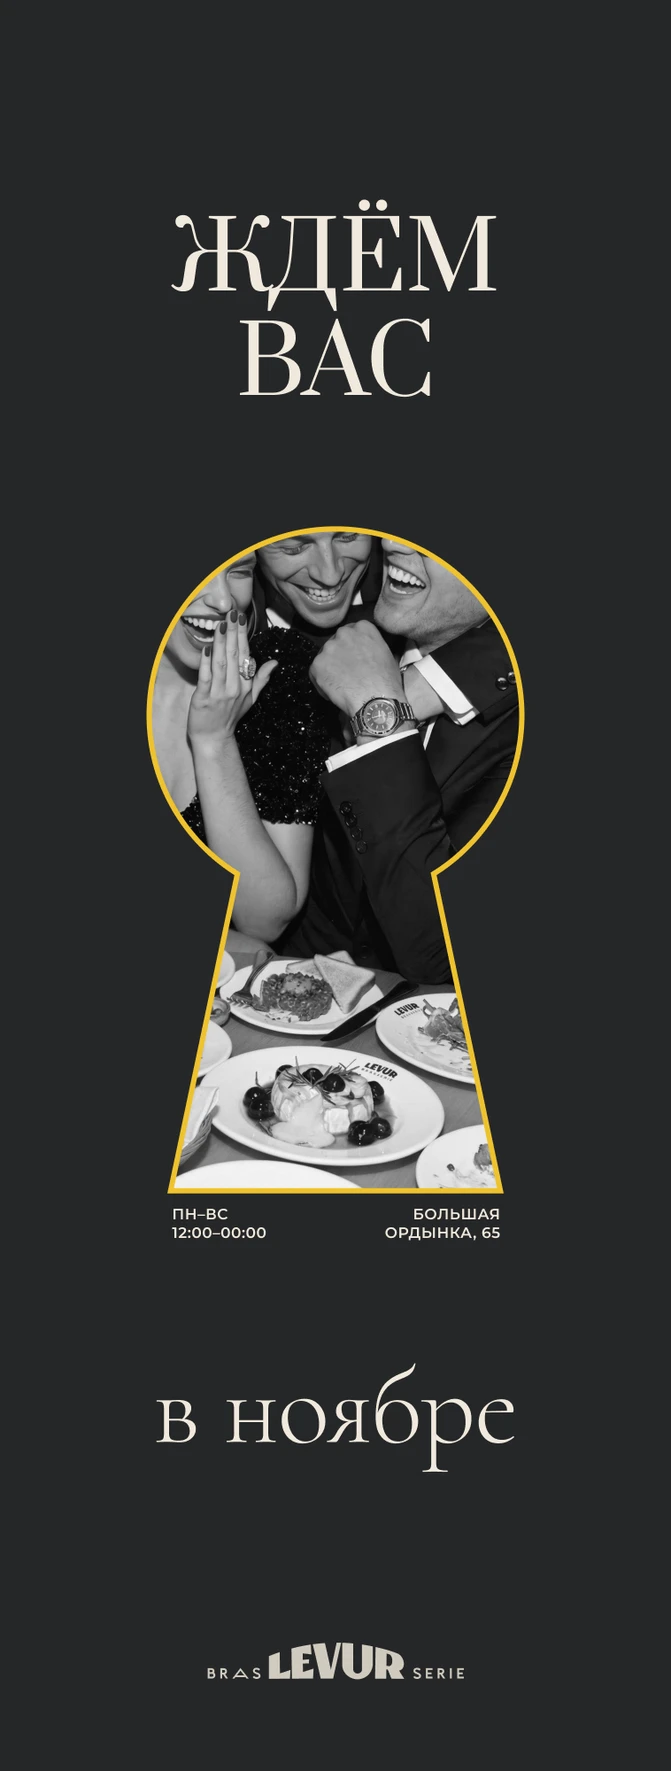
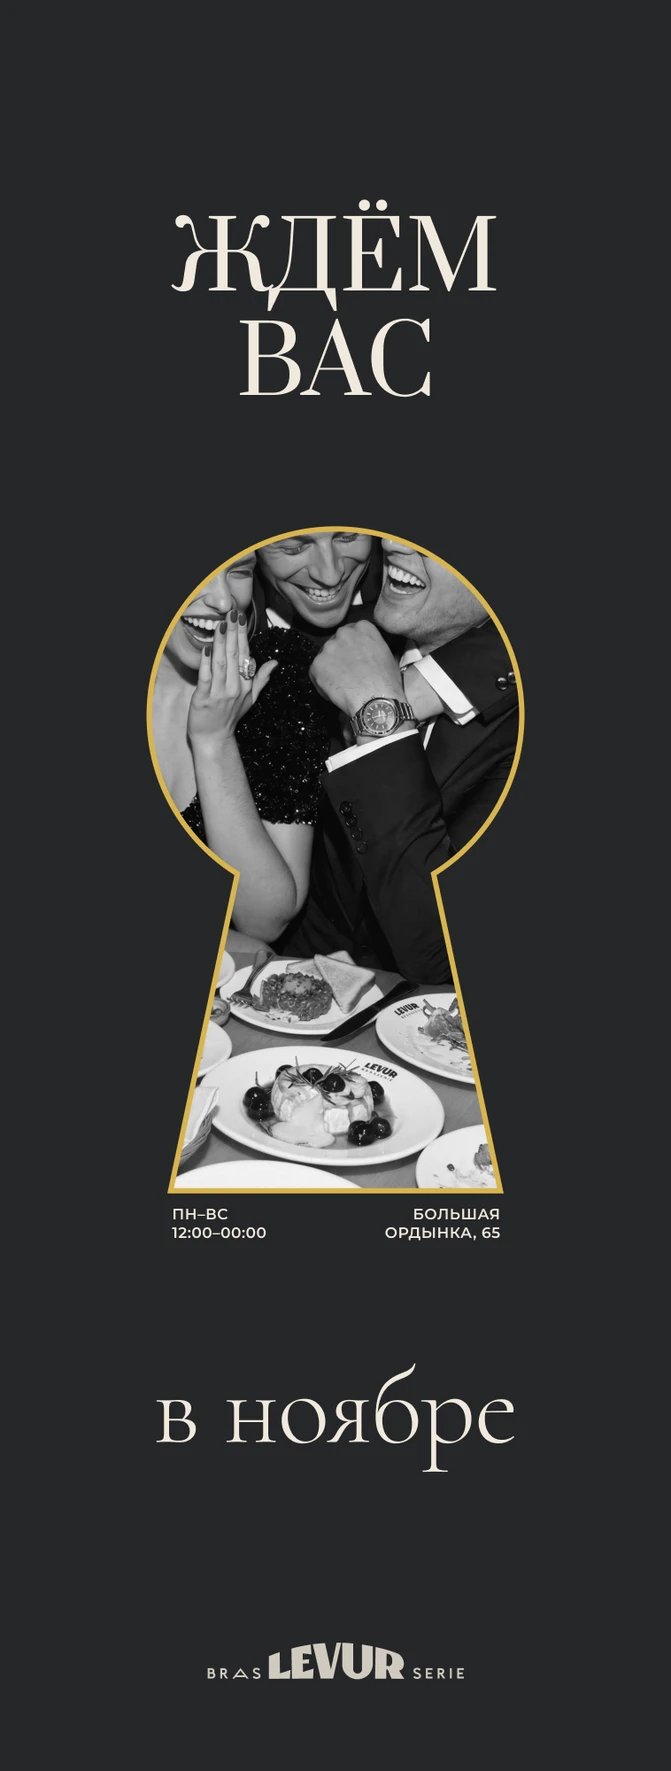
Жёлтый акцент приглушённее (#D8B44E)

diff --git a/index.html b/index.html
@@ -115,7 +115,7 @@
           <div class="plate">
             <div class="ly" data-depth="0.35">
               <img class="leaf" src="door-3d/door.webp" alt="">
-              <img class="sticker" data-base="covetour" src="door-3d/sticker-covetour.webp?v=20261028n" alt="Наклейка Covetour с цветным фото на стекле двери LEVUR">
+              <img class="sticker" data-base="covetour" src="door-3d/sticker-covetour.webp?v=20261028p" alt="Наклейка Covetour с цветным фото на стекле двери LEVUR">
               <div class="sheen"></div>
             </div>
             <div class="ly" data-depth="1">
@@ -134,7 +134,7 @@
           <div class="plate">
             <div class="ly" data-depth="0.35">
               <img class="leaf" src="door-3d/door.webp" alt="">
-              <img class="sticker" data-base="orsa" src="door-3d/sticker-orsa.webp?v=20261028n" alt="Наклейка «Ждём вас в гости в ноябре» с адресом и часами на стекле двери LEVUR">
+              <img class="sticker" data-base="orsa" src="door-3d/sticker-orsa.webp?v=20261028p" alt="Наклейка «Ждём вас в гости в ноябре» с адресом и часами на стекле двери LEVUR">
               <div class="sheen"></div>
             </div>
             <div class="ly" data-depth="1">
@@ -171,14 +171,14 @@
           </div>
           <div class="shade"></div>
         </div></div>
-        <figcaption>Вариант 1<span class="opts" role="group" aria-label="Цвет фото"><button type="button" data-img="k1" data-src="door-3d/sticker-keyhole.webp?v=20261028i" aria-pressed="true">Цвет</button><button type="button" data-img="k1" data-src="door-3d/sticker-keyhole-bw.webp?v=20261028o" aria-pressed="false">ЧБ</button></span></figcaption>
+        <figcaption>Вариант 1<span class="opts" role="group" aria-label="Цвет фото"><button type="button" data-img="k1" data-src="door-3d/sticker-keyhole.webp?v=20261028i" aria-pressed="true">Цвет</button><button type="button" data-img="k1" data-src="door-3d/sticker-keyhole-bw.webp?v=20261028p" aria-pressed="false">ЧБ</button></span></figcaption>
       </figure>
       <figure>
         <div class="frame"><div class="view" role="button" tabindex="0" aria-label="Открыть на весь экран">
           <div class="plate">
             <div class="ly" data-depth="0.35">
               <img class="leaf" src="door-3d/door.webp" alt="">
-              <img class="sticker" id="k2" src="door-3d/sticker-poster-grotesk-black.webp?v=20261028o" alt="Постер «Ждём вас в гости в ноябре» с фото в форме замочной скважины на стекле двери LEVUR">
+              <img class="sticker" id="k2" src="door-3d/sticker-poster-grotesk-black.webp?v=20261028p" alt="Постер «Ждём вас в гости в ноябре» с фото в форме замочной скважины на стекле двери LEVUR">
               <div class="sheen"></div>
             </div>
             <div class="ly" data-depth="1">
@@ -299,7 +299,7 @@
   const colorBtns = [...document.querySelectorAll('.swb[data-base]')], logoBtns = [...document.querySelectorAll('[data-logo]')];
   const logo = { orsa: false };
   const color = { covetour: 'black', orsa: 'black' };
-  const src = (b, c, l) => `door-3d/sticker-${b}${l ? '-logo' : ''}${c === 'black' ? '' : '-' + c}.webp?v=20261028n`;
+  const src = (b, c, l) => `door-3d/sticker-${b}${l ? '-logo' : ''}${c === 'black' ? '' : '-' + c}.webp?v=20261028p`;
   function paint() {
     for (const i of stickers) if (i.dataset.base) i.src = src(i.dataset.base, color[i.dataset.base], !!logo[i.dataset.base]);
     colorBtns.forEach(b => b.setAttribute('aria-pressed', String(color[b.dataset.base] === b.dataset.c)));
@@ -320,9 +320,9 @@
   const k2 = document.getElementById('k2'), k2sw = document.getElementById('k2sw');
   const k2fontBtns = [...document.querySelectorAll('[data-k2font]')], k2colBtns = [...k2sw.querySelectorAll('[data-k2c]')];
   const K2 = {
-    grotesk: { light: 'door-3d/sticker-poster-grotesk-light.webp?v=20261028n', black: 'door-3d/sticker-poster-grotesk-black.webp?v=20261028o',
+    grotesk: { light: 'door-3d/sticker-poster-grotesk-light.webp?v=20261028n', black: 'door-3d/sticker-poster-grotesk-black.webp?v=20261028p',
                green: 'door-3d/sticker-poster-grotesk-green.webp?v=20261028n', wine: 'door-3d/sticker-poster-grotesk-wine.webp?v=20261028n' },
-    serif: { light: 'door-3d/sticker-poster-serif.webp?v=20261028e', black: 'door-3d/sticker-poster-serif-dark.webp?v=20261028o',
+    serif: { light: 'door-3d/sticker-poster-serif.webp?v=20261028e', black: 'door-3d/sticker-poster-serif-dark.webp?v=20261028p',
              green: 'door-3d/sticker-poster-serif-dark-green.webp?v=20261028j', wine: 'door-3d/sticker-poster-serif-dark-wine.webp?v=20261028j' },
   };
   const k2st = { font: 'grotesk', color: { grotesk: 'black', serif: 'black' } };
